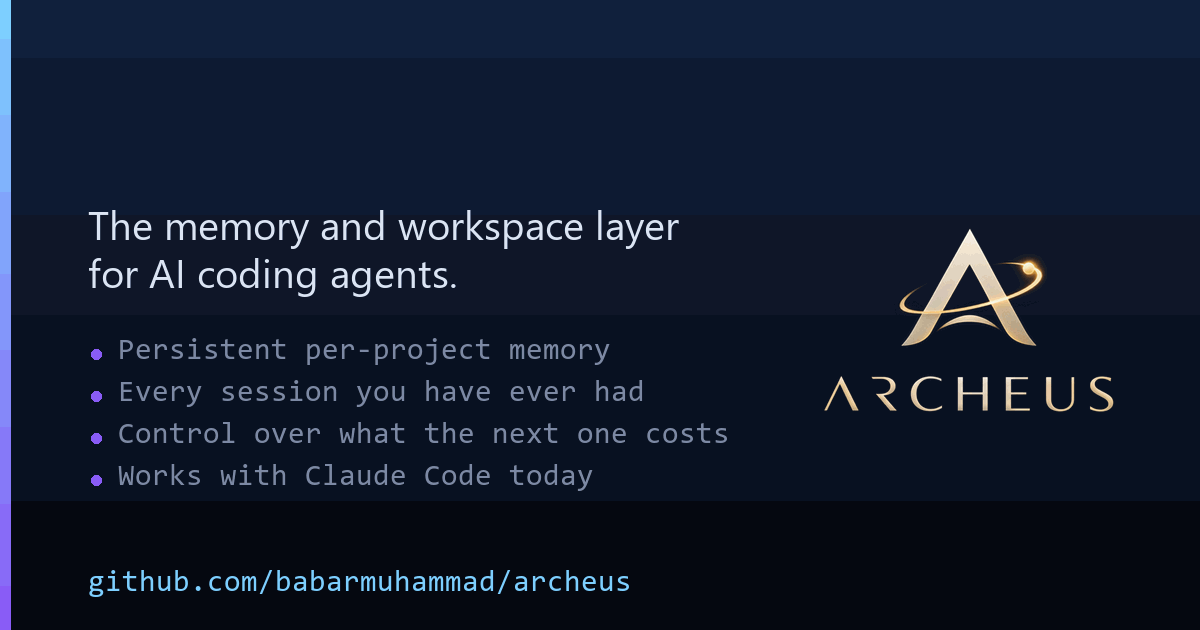
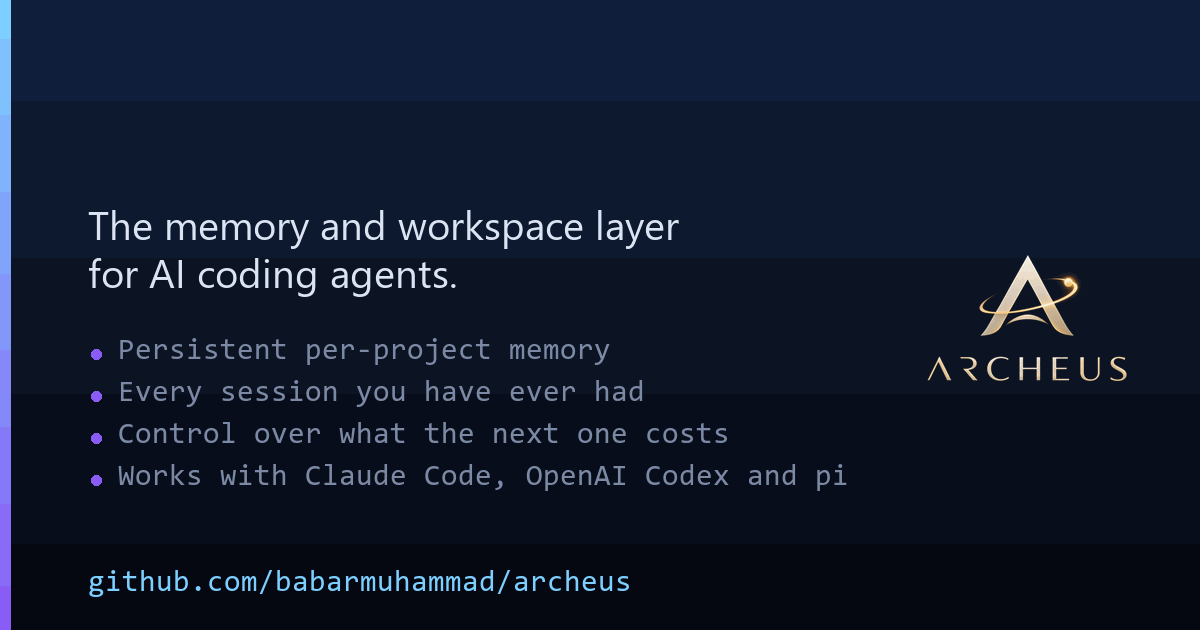
Say which agents it drives, and stop saying "today" about something that changed
The pitch ended "Works with Claude Code today". The word was doing honest work
for as long as one CLI was all there was: it marked the sentence as a snapshot
rather than a boundary. 2.4.0 is what it was waiting for — Codex and pi are read
end to end, their sessions and spend merge into the same lists, and every screen
carries a capability table that greys what a CLI cannot do and says why. So the
clause names the three, in thirteen surfaces plus the gate that defines it and
the study that has to quote what it replaced.

Naming them rather than saying "three coding CLIs" is a search decision as much
as a copy one: Codex and pi are the words someone types. Search Console, last 28
days: 71 impressions, every one of them for the old project name or a generic
Claude query, and none for archeus.

The old clause joins DEAD, so it cannot return by habit — which is how the gate
found the two surfaces a grep had missed, mkdocs.yml and the NuGet manifest,
where the sentence wraps across lines and a line-based search sees neither half.
The OG card is regenerated and re-optimised, since it draws the clause as one of
its four bullets.

Also fixes the old-name gate, which two of this session's own commits had
broken: the shim row in the packaging README and a measurement in notes/seo.md
named the old package where the sentence carried it anyway, and the site FAQ
names it three times because it is the question being answered — those three are
[…]

Changed region(s): [[0.7092, 0.3619, 0.9558, 0.6635], [0.4008, 0.7238, 0.7092, 0.7841], [0.6783, 0.6032, 0.7092, 0.6333]]

diff --git a/www/lib/faq.ts b/www/lib/faq.ts
@@ -13,13 +13,15 @@ export const FAQ: QA[] = [
   },
   {
     // The old name is still the single biggest query bringing this site
-    // impressions — `claudectl` at position 7.6 and `claude ctl` at position 3,
+    // impressions — position 7.6 for it and position 3 for the spaced spelling,
     // measured in Search Console — and until this entry existed the site did
-    // not contain the word anywhere. Someone arriving on that query had no
-    // confirmation they were in the right place, and a search engine had no
-    // text tying the two names to one thing.
+    // not contain that name anywhere. Someone arriving on the query that
+    // brought them had no confirmation they were in the right place, and a
+    // search engine had no sentence tying the two names to one thing. The
+    // mentions below are held by `tools/_rename_brand.py` so a future pass
+    // cannot rewrite them into a sentence that says nothing.
     q: 'Is archeus the same as claudectl?',
-    a: 'Yes. claudectl was renamed to archeus in September 2026, at version 2.0. It is the same project, the same author and the same code; the name changed because the tool had stopped being about one CLI. Everything migrates on first run — settings, accounts, per-project launch defaults, the memory graph in each project, snapshots, plans and logs — and nothing is deleted. The `claudectl` command keeps working. If you already have it installed, `pip install -U claudectl` pulls archeus in and carries you over; claudectl 1.9.2 is the final release under the old name and contains no code of its own, only the dependency. New installs should use `pipx install archeus` directly.',
+    a: 'Yes. claudectl was renamed to archeus at version 2.0, in September 2026. Same project, same author, same code — the name changed because the tool had stopped being about one CLI. Everything migrates the first time you run it: settings, accounts, per-project launch defaults, the memory graph in each project, snapshots, plans and logs. Nothing is deleted, and the old command keeps working. If you already have the old package, pip install -U claudectl pulls archeus in and carries you across; its final release ships no code of its own, only the dependency. New installs should use pipx install archeus directly.',
   },
   {
     q: 'Where does the name archeus come from, and what is it not?',

diff --git a/www/lib/content.ts b/www/lib/content.ts
@@ -46,14 +46,14 @@ export const HOME: Doc = {
   description:
     'Persistent per-project memory, every session you have ever had, and control over what the next one costs. For Claude Code, OpenAI Codex and pi. Zero deps, MIT.',
   intro:
-    'Persistent per-project memory, every session you have ever had, and control over what the next one costs. Works with Claude Code today.',
+    'Persistent per-project memory, every session you have ever had, and control over what the next one costs. Works with Claude Code, OpenAI Codex and pi.',
   sections: [
     {
       id: 'hero',
       eyebrow: 'Station 01',
       heading: 'The memory and workspace layer for AI coding agents.',
       lead:
-        'Persistent per-project memory, every session you have ever had, and control over what the next one costs. Works with Claude Code today — a terminal UI and a desktop GUI over the same engine.',
+        'Persistent per-project memory, every session you have ever had, and control over what the next one costs. Works with Claude Code, OpenAI Codex and pi — a terminal UI and a desktop GUI over the same engine.',
       blocks: [
         code('pipx install archeus', 'install'),
         ul([

diff --git a/tests/test_brand_copy.py b/tests/test_brand_copy.py
@@ -36,7 +36,8 @@ ROOT = os.path.dirname(os.path.dirname(os.path.abspath(__file__)))
 #: The canonical pitch, verbatim. Short slots use the first sentence alone.
 PITCH = 'The memory and workspace layer for AI coding agents.'
 SUB = ('Persistent per-project memory, every session you have ever had, and '
-       'control over what the next one costs. Works with Claude Code today.')
+       'control over what the next one costs. Works with Claude Code, '
+       'OpenAI Codex and pi.')
 
 #: The pitch without its leading article and trailing period, so it can be
 #: asserted inside running prose ("the Python memory and workspace layer for
@@ -56,6 +57,12 @@ DEAD = (
     'workspace layer for Claude Code',
     'workspace manager for Claude Code',
     'Windows workspace manager',
+    # The clause that named one CLI. It was honest for as long as one CLI
+    # was all there was, and 2.4.0 ended that — Codex and pi are read end
+    # to end, with a capability table per harness. A sentence that says
+    # 'today' about something that changed is the one shape this gate
+    # exists to catch, so it joins the list it used to be the fix for.
+    'Works with Claude Code today',
 )
 
 DEAD_EXEMPT = {

diff --git a/tools/_rename_brand.py b/tools/_rename_brand.py
@@ -74,6 +74,16 @@ HOLD = {
     # do have to change — and skipping it turned "Formerly claudectl" into
     # "Formerly archeus", which says nothing at all.
     'Formerly <code>claudectl</code>': '\x00HOLD-FORMERLY\x00',
+    # The site FAQ answers the query that actually brings people here: the old
+    # name outranks the new one and is the largest single source of impressions
+    # this site has (position 7.6, measured). Same argument as the README line
+    # above — `www/lib/faq.ts` is full of the current name and has to stay
+    # renameable, so the three deliberate mentions are held rather than the file
+    # skipped. Rewriting them would turn the answer into "archeus was renamed to
+    # archeus", which answers nobody.
+    'the same as claudectl': '\x00HOLD-FAQ-Q\x00',
+    'claudectl was renamed to archeus': '\x00HOLD-FAQ-A\x00',
+    'pip install -U claudectl': '\x00HOLD-FAQ-UPGRADE\x00',
 }
 
 SUBS = (('claudectl', 'archeus'),

diff --git a/claude_sessions/cli.py b/claude_sessions/cli.py
@@ -16,7 +16,7 @@ breakable by anything in it. This module imports the standard library only.
 import sys
 
 HELP = """archeus {ver}— The memory and workspace layer for AI coding agents.
-Works with Claude Code today.
+Works with Claude Code, OpenAI Codex and pi.
 
 USAGE
   archeus                  open the workspace UI (TUI unless ui_mode says GUI)

diff --git a/tools/make_og_card.py b/tools/make_og_card.py
@@ -57,7 +57,7 @@ TAG_W = 600
 BULLETS = ['Persistent per-project memory',
            'Every session you have ever had',
            'Control over what the next one costs',
-           'Works with Claude Code today']
+           'Works with Claude Code, OpenAI Codex and pi']
 
 
 def _vgradient(size, top, bot):

diff --git a/notes/brand-study.md b/notes/brand-study.md
@@ -84,7 +84,7 @@ Canonical, verbatim. This is the string `tests/test_brand_copy.py` asserts:
 
 > **The memory and workspace layer for AI coding agents.**
 > Persistent per-project memory, every session you have ever had, and control over what
-> the next one costs. Works with Claude Code today.
+> the next one costs. Works with Claude Code, OpenAI Codex and pi.
 
 Short slots (description fields, taglines) take the first sentence alone:
 
@@ -120,10 +120,31 @@ sentence with no gate is a sentence that becomes three sentences.
 
 ### The clause that does the work
 
-`Works with Claude Code today` is load-bearing in both directions. It is the honest
-statement of the only supported surface, *and* it is what earns the right to say "AI
-coding agents" in the first clause without the sentence becoming a promise. Remove it and
-the pitch is a lie; remove "for AI coding agents" and the product is furniture again.
+The last clause is load-bearing in both directions: it is the honest statement of what
+is actually driven, *and* it is what earns the right to say "AI coding agents" in the
+first clause without the sentence becoming a promise. Remove it and the pitch is a lie;
+remove "for AI coding agents" and the product is furniture again.
+
+### What it used to say, and why it changed
+
+Until 2.4.0 the clause read:
+
+> Persistent per-project memory, every session you have ever had, and control over what
+> the next one costs. **Works with Claude Code today.**
+
+`today` was doing the honest work of a roadmap marker: one CLI was supported, and the
+word admitted it was a snapshot rather than a boundary. 2.4.0 is what the word was
+waiting for — Codex and pi are read end to end, their sessions and spend merge into the
+same lists, and every screen carries a capability table that greys what a given CLI
+cannot do and says why. So the clause names the three.
+
+Naming them rather than saying "three coding CLIs" is deliberate, and it is a search
+decision as much as a copy one: `Codex` and `pi` are the words someone types. The
+measured state when this changed — 71 impressions in 28 days, every one of them for the
+OLD project name or a generic Claude query, none for `archeus` — is the argument for
+spending the clause on terms people search rather than on a count.
+
+The clause it replaced is in `DEAD` now, so it cannot come back by habit.
 
 ---
 

diff --git a/packaging/README.md b/packaging/README.md
@@ -30,7 +30,7 @@ out-writing them later.
 | | |
 |---|---|
 | PyPI `archeus` | **ours** — 2.4.0 |
-| PyPI `claudectl` (the old name) | **ours** — 1.9.2, the shim: no code, `archeus>=2.4.0`, published 2026-09-15 |
+| PyPI, under the old name | **ours** — the shim at 1.9.2: no code, `archeus>=2.4.0`, published 2026-09-15 |
 | npm `archeus` | **ours** — 2.4.1 (the launcher runs a patch ahead; see below) |
 | RubyGems `archeus` | **ours** — 2.4.0 |
 | crates.io / NuGet / Packagist `archeus` | free |
@@ -69,9 +69,9 @@ Set the pin DOWN to the archeus release that just went out, in the built copy
 only — the repo file names the NEXT one, which is what
 `test_the_shim_pins_a_version_that_does_not_exist_yet` asserts. Build it
 somewhere else rather than editing the file, and prove it before uploading: a
-clean venv, `pip install <the wheel>`, then check that `claudectl` and `archeus`
-both run and that `importlib.metadata.files('claudectl')` lists NO
-`claude_sessions` files. That last one is the whole design — a shim that owns
+clean venv, `pip install <the wheel>`, then check that BOTH commands run and
+that `importlib.metadata.files(...)` for the shim lists NO `claude_sessions`
+files. That last one is the whole design — a shim that owns
 those files deletes the real package's copy of them when it is next uninstalled.
 
 Its `project_urls` name the repository and nothing else, deliberately: this file

diff --git a/notes/seo.md b/notes/seo.md
@@ -91,7 +91,7 @@ Worth keeping because the intuition is wrong in both directions.
 | | |
 |---|---|
 | Google | **27 pages indexed, 12 impressions**, 3 "Page with redirect", 3 "Crawled - currently not indexed". Domain property, both sitemaps submitted. |
-| Bing / DuckDuckGo | **zero pages.** `site:claudectl.space` and `site:docs.claudectl.space` return literally nothing, while the pre-rename `github.com/babarmuhammad/claudectl` still returns 6 on DDG and 9 on Bing. |
+| Bing / DuckDuckGo | **zero pages.** `site:claudectl.space` and `site:docs.claudectl.space` return literally nothing, while the repository under its PRE-RENAME name still returns 6 on DDG and 9 on Bing. |
 | The bare query `archeus` | the Paracelsus term, Nintendo's Arceus, a World of Warcraft item, the OED. Nothing of this project, on any engine. Autocomplete suggests no software term at all. |
 | External links | none written by a human. Two auto-scrapers and one PyPI metadata mirror. DDG returns nothing for the literal string `"claudectl.space"`. |
 

diff --git a/packaging/crates/README.md b/packaging/crates/README.md
@@ -9,7 +9,7 @@ pipx install archeus        # or: pip install archeus
 
 The memory and workspace layer for AI coding agents: persistent per-project
 memory, every session you have ever had, and control over what the next one
-costs. Works with Claude Code today.
+costs. Works with Claude Code, OpenAI Codex and pi.
 
 Source, documentation and issues: <https://github.com/babarmuhammad/archeus>
 

diff --git a/packaging/nuget/README.md b/packaging/nuget/README.md
@@ -9,7 +9,7 @@ pipx install archeus        # or: pip install archeus
 
 The memory and workspace layer for AI coding agents: persistent per-project
 memory, every session you have ever had, and control over what the next one
-costs. Works with Claude Code today.
+costs. Works with Claude Code, OpenAI Codex and pi.
 
 Source, documentation and issues: <https://github.com/babarmuhammad/archeus>
 

diff --git a/packaging/rubygems/README.md b/packaging/rubygems/README.md
@@ -9,7 +9,7 @@ pipx install archeus        # or: pip install archeus
 
 The memory and workspace layer for AI coding agents: persistent per-project
 memory, every session you have ever had, and control over what the next one
-costs. Works with Claude Code today.
+costs. Works with Claude Code, OpenAI Codex and pi.
 
 Source, documentation and issues: <https://github.com/babarmuhammad/archeus>
 
